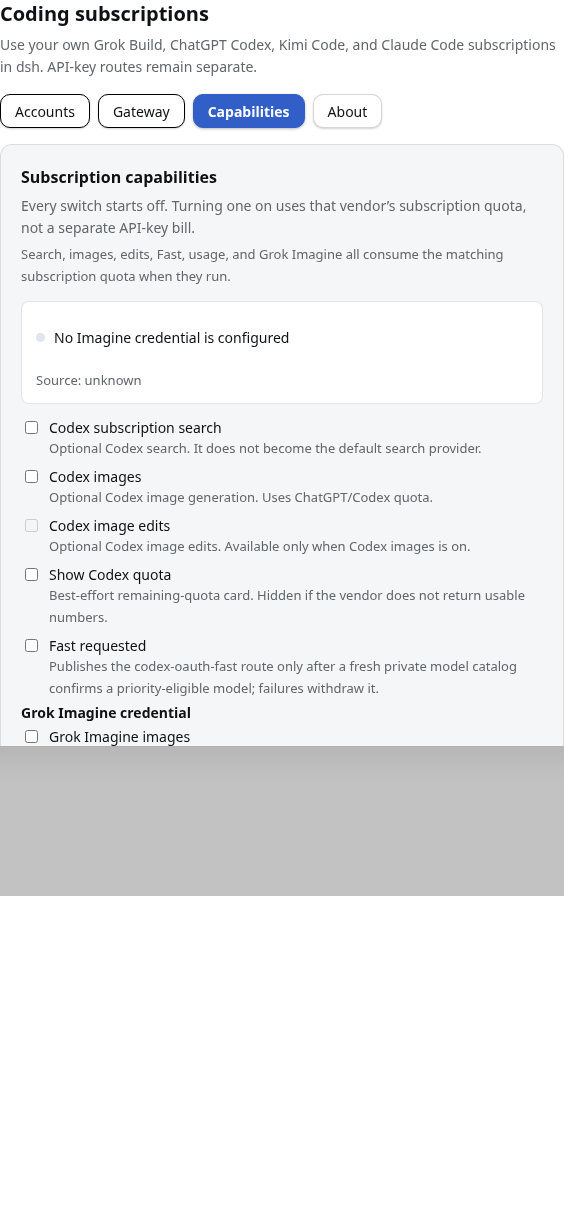
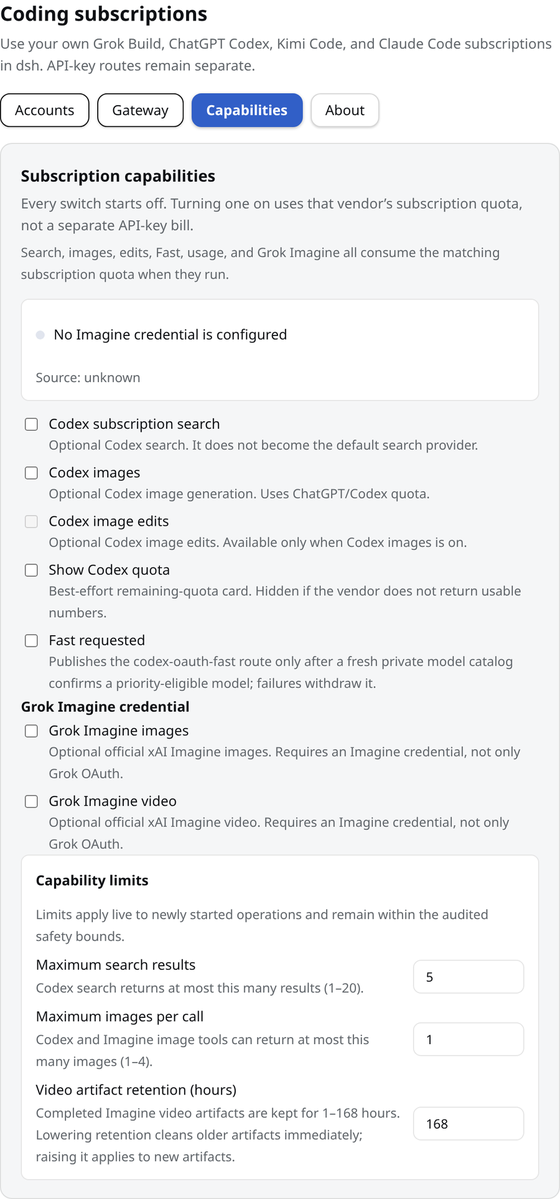
docs: fix README settings screenshot layout
Recapture full Accounts/Gateway/Capabilities panels without clipped
content, and render them as a three-column gallery instead of stacked
full-width images that dominated the README.

diff --git a/README.md b/README.md
@@ -145,17 +145,22 @@ pnpm run smoke:deployed             # real Codex/Kimi tool-calls + second-turn r
 
 Open **Settings → Coding OAuth**. The page is organized into four top tabs — **Accounts**, **Gateway**, **Capabilities**, and **About** — so it no longer requires a long waterfall scroll. Signed-in provider cards collapse to a compact summary; expand one to edit models or use its CLI Pull controls. CLI previews span the full content width, and the Capabilities tab shows live optional switches plus Imagine status.
 
-<p align="center">
-  <img src="media/settings_accounts.png" alt="Coding OAuth Accounts tab" width="900" />
-</p>
-
-<p align="center">
-  <img src="media/settings_gateway.png" alt="Coding OAuth Gateway tab" width="900" />
-</p>
-
-<p align="center">
-  <img src="media/settings_capabilities.png" alt="Coding OAuth Capabilities tab" width="900" />
-</p>
+<table>
+  <tr>
+    <td align="center" valign="top" width="33%">
+      <a href="media/settings_accounts.png"><img src="media/settings_accounts.png" alt="Coding OAuth Accounts tab" width="280" /></a><br />
+      <sub>Accounts</sub>
+    </td>
+    <td align="center" valign="top" width="33%">
+      <a href="media/settings_gateway.png"><img src="media/settings_gateway.png" alt="Coding OAuth Gateway tab" width="280" /></a><br />
+      <sub>Gateway</sub>
+    </td>
+    <td align="center" valign="top" width="33%">
+      <a href="media/settings_capabilities.png"><img src="media/settings_capabilities.png" alt="Coding OAuth Capabilities tab" width="280" /></a><br />
+      <sub>Capabilities</sub>
+    </td>
+  </tr>
+</table>
 
 | Provider | Methods |
 |---|---|

diff --git a/README.zh-CN.md b/README.zh-CN.md
@@ -143,17 +143,22 @@ pnpm run smoke:deployed             # 真实 Codex/Kimi tool-call + 第二个用
 
 打开 **设置 → 编码 OAuth**。页面拆成四个顶部标签：**Accounts**、**Gateway**、**Capabilities**、**About**，不再需要长距离滚动。已登录供应商卡片默认折叠，展开后可编辑模型或使用卡片内的 CLI 拉取；CLI 预览占满内容宽度，Capabilities 标签还会显示实时可选开关和 Imagine 状态。
 
-<p align="center">
-  <img src="media/settings_accounts.png" alt="编码 OAuth · Accounts 标签" width="900" />
-</p>
-
-<p align="center">
-  <img src="media/settings_gateway.png" alt="编码 OAuth · Gateway 标签" width="900" />
-</p>
-
-<p align="center">
-  <img src="media/settings_capabilities.png" alt="编码 OAuth · Capabilities 标签" width="900" />
-</p>
+<table>
+  <tr>
+    <td align="center" valign="top" width="33%">
+      <a href="media/settings_accounts.png"><img src="media/settings_accounts.png" alt="编码 OAuth · Accounts 标签" width="280" /></a><br />
+      <sub>Accounts</sub>
+    </td>
+    <td align="center" valign="top" width="33%">
+      <a href="media/settings_gateway.png"><img src="media/settings_gateway.png" alt="编码 OAuth · Gateway 标签" width="280" /></a><br />
+      <sub>Gateway</sub>
+    </td>
+    <td align="center" valign="top" width="33%">
+      <a href="media/settings_capabilities.png"><img src="media/settings_capabilities.png" alt="编码 OAuth · Capabilities 标签" width="280" /></a><br />
+      <sub>Capabilities</sub>
+    </td>
+  </tr>
+</table>
 
 | 供应商 | 方式 |
 |---|---|

diff --git a/README.de.md b/README.de.md
@@ -142,17 +142,22 @@ pnpm run smoke:deployed             # echte Codex/Kimi-Tool-Calls + Replay des z
 **Settings → Coding OAuth** öffnen:
 
 
-<p align="center">
-  <img src="media/settings_accounts.png" alt="Coding OAuth Accounts tab" width="900" />
-</p>
-
-<p align="center">
-  <img src="media/settings_gateway.png" alt="Coding OAuth Gateway tab" width="900" />
-</p>
-
-<p align="center">
-  <img src="media/settings_capabilities.png" alt="Coding OAuth Capabilities tab" width="900" />
-</p>
+<table>
+  <tr>
+    <td align="center" valign="top" width="33%">
+      <a href="media/settings_accounts.png"><img src="media/settings_accounts.png" alt="Coding OAuth Accounts tab" width="280" /></a><br />
+      <sub>Accounts</sub>
+    </td>
+    <td align="center" valign="top" width="33%">
+      <a href="media/settings_gateway.png"><img src="media/settings_gateway.png" alt="Coding OAuth Gateway tab" width="280" /></a><br />
+      <sub>Gateway</sub>
+    </td>
+    <td align="center" valign="top" width="33%">
+      <a href="media/settings_capabilities.png"><img src="media/settings_capabilities.png" alt="Coding OAuth Capabilities tab" width="280" /></a><br />
+      <sub>Capabilities</sub>
+    </td>
+  </tr>
+</table>
 
 | Anbieter | Methoden |
 |---|---|

diff --git a/README.ru.md b/README.ru.md
@@ -143,17 +143,22 @@ pnpm run smoke:deployed             # реальные вызовы Codex/Kimi +
 
 
 
-<p align="center">
-  <img src="media/settings_accounts.png" alt="Coding OAuth Accounts tab" width="900" />
-</p>
-
-<p align="center">
-  <img src="media/settings_gateway.png" alt="Coding OAuth Gateway tab" width="900" />
-</p>
-
-<p align="center">
-  <img src="media/settings_capabilities.png" alt="Coding OAuth Capabilities tab" width="900" />
-</p>
+<table>
+  <tr>
+    <td align="center" valign="top" width="33%">
+      <a href="media/settings_accounts.png"><img src="media/settings_accounts.png" alt="Coding OAuth Accounts tab" width="280" /></a><br />
+      <sub>Accounts</sub>
+    </td>
+    <td align="center" valign="top" width="33%">
+      <a href="media/settings_gateway.png"><img src="media/settings_gateway.png" alt="Coding OAuth Gateway tab" width="280" /></a><br />
+      <sub>Gateway</sub>
+    </td>
+    <td align="center" valign="top" width="33%">
+      <a href="media/settings_capabilities.png"><img src="media/settings_capabilities.png" alt="Coding OAuth Capabilities tab" width="280" /></a><br />
+      <sub>Capabilities</sub>
+    </td>
+  </tr>
+</table>
 
 | Провайдер | Методы |
 |---|---|

diff --git a/README.ja.md b/README.ja.md
@@ -143,17 +143,22 @@ pnpm run smoke:deployed             # 実際の Codex/Kimi ツール呼び出し
 
 
 
-<p align="center">
-  <img src="media/settings_accounts.png" alt="Coding OAuth Accounts tab" width="900" />
-</p>
-
-<p align="center">
-  <img src="media/settings_gateway.png" alt="Coding OAuth Gateway tab" width="900" />
-</p>
-
-<p align="center">
-  <img src="media/settings_capabilities.png" alt="Coding OAuth Capabilities tab" width="900" />
-</p>
+<table>
+  <tr>
+    <td align="center" valign="top" width="33%">
+      <a href="media/settings_accounts.png"><img src="media/settings_accounts.png" alt="Coding OAuth Accounts tab" width="280" /></a><br />
+      <sub>Accounts</sub>
+    </td>
+    <td align="center" valign="top" width="33%">
+      <a href="media/settings_gateway.png"><img src="media/settings_gateway.png" alt="Coding OAuth Gateway tab" width="280" /></a><br />
+      <sub>Gateway</sub>
+    </td>
+    <td align="center" valign="top" width="33%">
+      <a href="media/settings_capabilities.png"><img src="media/settings_capabilities.png" alt="Coding OAuth Capabilities tab" width="280" /></a><br />
+      <sub>Capabilities</sub>
+    </td>
+  </tr>
+</table>
 
 | プロバイダー | 方法 |
 |---|---|

diff --git a/README.fr.md b/README.fr.md
@@ -143,17 +143,22 @@ Ouvrez **Settings → Coding OAuth** :
 
 
 
-<p align="center">
-  <img src="media/settings_accounts.png" alt="Coding OAuth Accounts tab" width="900" />
-</p>
-
-<p align="center">
-  <img src="media/settings_gateway.png" alt="Coding OAuth Gateway tab" width="900" />
-</p>
-
-<p align="center">
-  <img src="media/settings_capabilities.png" alt="Coding OAuth Capabilities tab" width="900" />
-</p>
+<table>
+  <tr>
+    <td align="center" valign="top" width="33%">
+      <a href="media/settings_accounts.png"><img src="media/settings_accounts.png" alt="Coding OAuth Accounts tab" width="280" /></a><br />
+      <sub>Accounts</sub>
+    </td>
+    <td align="center" valign="top" width="33%">
+      <a href="media/settings_gateway.png"><img src="media/settings_gateway.png" alt="Coding OAuth Gateway tab" width="280" /></a><br />
+      <sub>Gateway</sub>
+    </td>
+    <td align="center" valign="top" width="33%">
+      <a href="media/settings_capabilities.png"><img src="media/settings_capabilities.png" alt="Coding OAuth Capabilities tab" width="280" /></a><br />
+      <sub>Capabilities</sub>
+    </td>
+  </tr>
+</table>
 
 | Fournisseur | Méthodes |
 |---|---|

diff --git a/README.es.md b/README.es.md
@@ -143,17 +143,22 @@ Abre **Settings → Coding OAuth**:
 
 
 
-<p align="center">
-  <img src="media/settings_accounts.png" alt="Coding OAuth Accounts tab" width="900" />
-</p>
-
-<p align="center">
-  <img src="media/settings_gateway.png" alt="Coding OAuth Gateway tab" width="900" />
-</p>
-
-<p align="center">
-  <img src="media/settings_capabilities.png" alt="Coding OAuth Capabilities tab" width="900" />
-</p>
+<table>
+  <tr>
+    <td align="center" valign="top" width="33%">
+      <a href="media/settings_accounts.png"><img src="media/settings_accounts.png" alt="Coding OAuth Accounts tab" width="280" /></a><br />
+      <sub>Accounts</sub>
+    </td>
+    <td align="center" valign="top" width="33%">
+      <a href="media/settings_gateway.png"><img src="media/settings_gateway.png" alt="Coding OAuth Gateway tab" width="280" /></a><br />
+      <sub>Gateway</sub>
+    </td>
+    <td align="center" valign="top" width="33%">
+      <a href="media/settings_capabilities.png"><img src="media/settings_capabilities.png" alt="Coding OAuth Capabilities tab" width="280" /></a><br />
+      <sub>Capabilities</sub>
+    </td>
+  </tr>
+</table>
 
 | Proveedor | Métodos |
 |---|---|

diff --git a/README.pt-BR.md b/README.pt-BR.md
@@ -143,17 +143,22 @@ Abra **Settings → Coding OAuth**:
 
 
 
-<p align="center">
-  <img src="media/settings_accounts.png" alt="Coding OAuth Accounts tab" width="900" />
-</p>
-
-<p align="center">
-  <img src="media/settings_gateway.png" alt="Coding OAuth Gateway tab" width="900" />
-</p>
-
-<p align="center">
-  <img src="media/settings_capabilities.png" alt="Coding OAuth Capabilities tab" width="900" />
-</p>
+<table>
+  <tr>
+    <td align="center" valign="top" width="33%">
+      <a href="media/settings_accounts.png"><img src="media/settings_accounts.png" alt="Coding OAuth Accounts tab" width="280" /></a><br />
+      <sub>Accounts</sub>
+    </td>
+    <td align="center" valign="top" width="33%">
+      <a href="media/settings_gateway.png"><img src="media/settings_gateway.png" alt="Coding OAuth Gateway tab" width="280" /></a><br />
+      <sub>Gateway</sub>
+    </td>
+    <td align="center" valign="top" width="33%">
+      <a href="media/settings_capabilities.png"><img src="media/settings_capabilities.png" alt="Coding OAuth Capabilities tab" width="280" /></a><br />
+      <sub>Capabilities</sub>
+    </td>
+  </tr>
+</table>
 
 | Provedor | Métodos |
 |---|---|

diff --git a/CHANGELOG.md b/CHANGELOG.md
@@ -7,6 +7,7 @@ All notable changes to `dsh-coding-subscription-oauth` are documented here, foll
 ### Documentation
 
 - Add product screenshots of Settings → Coding OAuth (Accounts, Gateway, Capabilities) under `media/`, linked from the README family.
+- Tighten Settings screenshot framing and show Accounts / Gateway / Capabilities as a three-column README gallery instead of stacked full-width images.
 
 ## v0.5.3 - 2026-08-19
 
